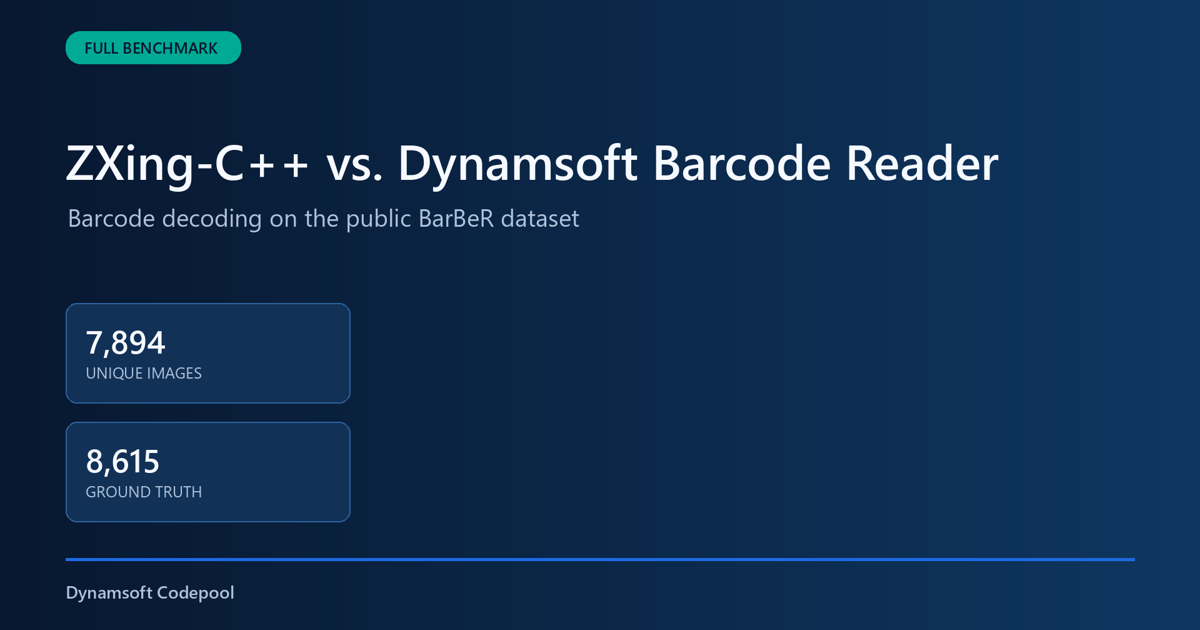
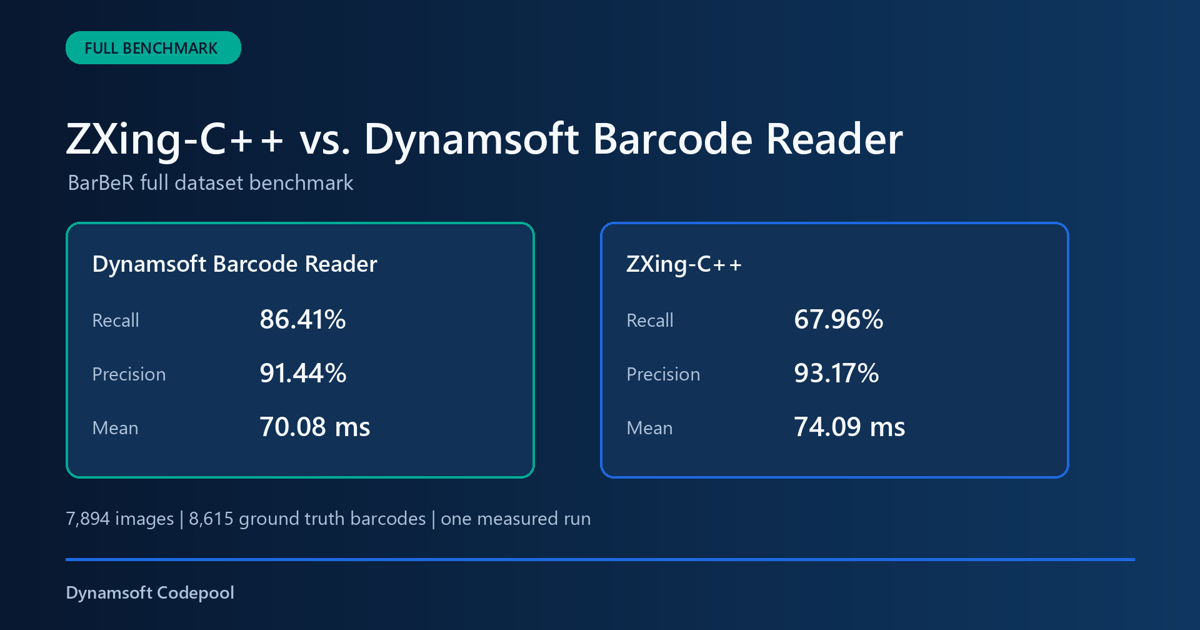
Updated assets

diff --git a/examples/benchmark/tools/generate_benchmark_media.py b/examples/benchmark/tools/generate_benchmark_media.py
@@ -64,6 +64,31 @@ def title_slide(title, subtitle, details=None):
     return image
 
 
+def benchmark_cover_slide(summary, images, ground_truth):
+    image, draw = base_slide()
+    draw.text((105, 205), "ZXing-C++ vs. Dynamsoft Barcode Reader", font=fit_text(draw, "ZXing-C++ vs. Dynamsoft Barcode Reader", 1710, 70, True), fill=WHITE)
+    draw.text((108, 302), "BarBeR full dataset benchmark", font=font(34), fill=MUTED)
+    decoders = list(summary["decoders"].items())
+    colors = [TEAL, BLUE]
+    for index, (name, metrics) in enumerate(decoders):
+        x = 105 + index * 855
+        draw.rounded_rectangle((x, 390, x + 750, 800), 22, fill=(17, 49, 86), outline=colors[index], width=4)
+        title = "Dynamsoft Barcode Reader" if name == "dynamsoft-dbr" else "ZXing-C++"
+        draw.text((x + 42, 430), title, font=fit_text(draw, title, 660, 37, True), fill=WHITE)
+        values = [
+            ("Recall", f'{metrics["coverage_adjusted_recall"] * 100:.2f}%'),
+            ("Precision", f'{metrics["precision"] * 100:.2f}%'),
+            ("Mean", f'{metrics["mean_decode_ms"]:.2f} ms'),
+        ]
+        y = 525
+        for label, value in values:
+            draw.text((x + 42, y), label, font=font(30), fill=MUTED)
+            draw.text((x + 310, y - 12), value, font=font(44, True), fill=WHITE)
+            y += 86
+    draw.text((105, 842), f"{images:,} images | {ground_truth:,} ground truth barcodes | one measured run", font=font(30), fill=MUTED)
+    return image
+
+
 def comparison_slide(summary, images, repetitions):
     image, draw = base_slide()
     draw.text((105, 205), "Measured Results", font=font(72, True), fill=WHITE)
@@ -110,11 +135,7 @@ def main():
     frames = args.output / "video_frames"
     frames.mkdir(exist_ok=True)
     slides = [
-        title_slide(
-            "ZXing-C++ vs. Dynamsoft Barcode Reader",
-            "Barcode decoding on the public BarBeR dataset",
-            [("UNIQUE IMAGES", f"{images:,}"), ("GROUND TRUTH", f"{ground_truth:,}")],
-        ),
+        benchmark_cover_slide(summary, images, ground_truth),
         title_slide(
             "One Dataset and One Input Pipeline",
             "The same RGB888 pixels are passed to both barcode readers",